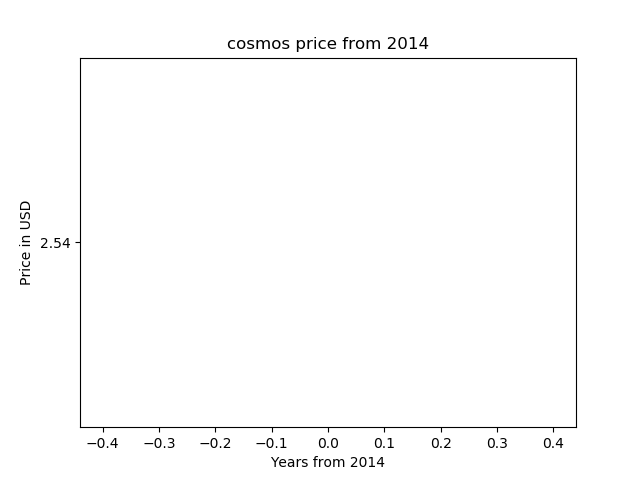
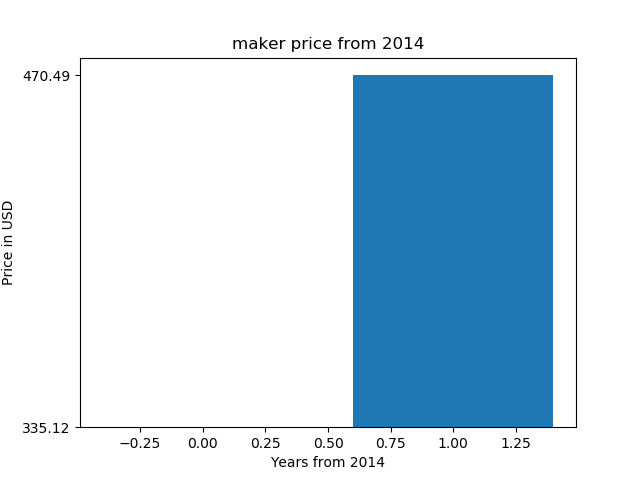
first commit

diff --git a/example.py b/example.py
@@ -10,7 +10,7 @@ from time import gmtime, strftime
 import matplotlib.pyplot as plt
 
 enddate = strftime("%Y%m%d", gmtime())
-r  = requests.get("https://coinmarketcap.com/currencies/cosmos/historical-data/?start=20140101&end={0}".format(enddate))
+r  = requests.get("https://coinmarketcap.com/currencies/maker/historical-data/?start=20140101&end={0}".format(enddate))
 data = r.text
 
 soup = BeautifulSoup(data, "html.parser")
@@ -37,7 +37,7 @@ print(prices)
 
 x = list(range(0, len(prices)))
 
-plt.title('cosmos price from 2014')
+plt.title('maker price from 2014')
 plt.ylabel('Price in USD')
 plt.xlabel('Years from 2014')
 plt.bar(x, prices)

diff --git a/README.md b/README.md
@@ -1,6 +1,6 @@
-# cosmos price chart 
+# maker price chart 
 
-cosmos price chart (matplotlib, python)
+maker price chart (matplotlib, python)
 
 https://pythonprogramminglanguage.com
 
